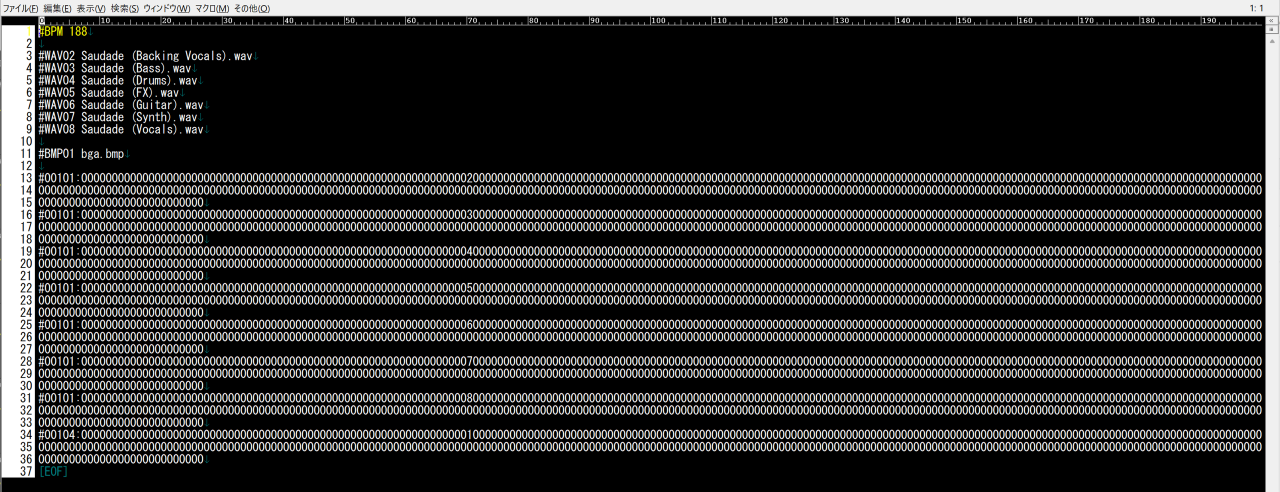
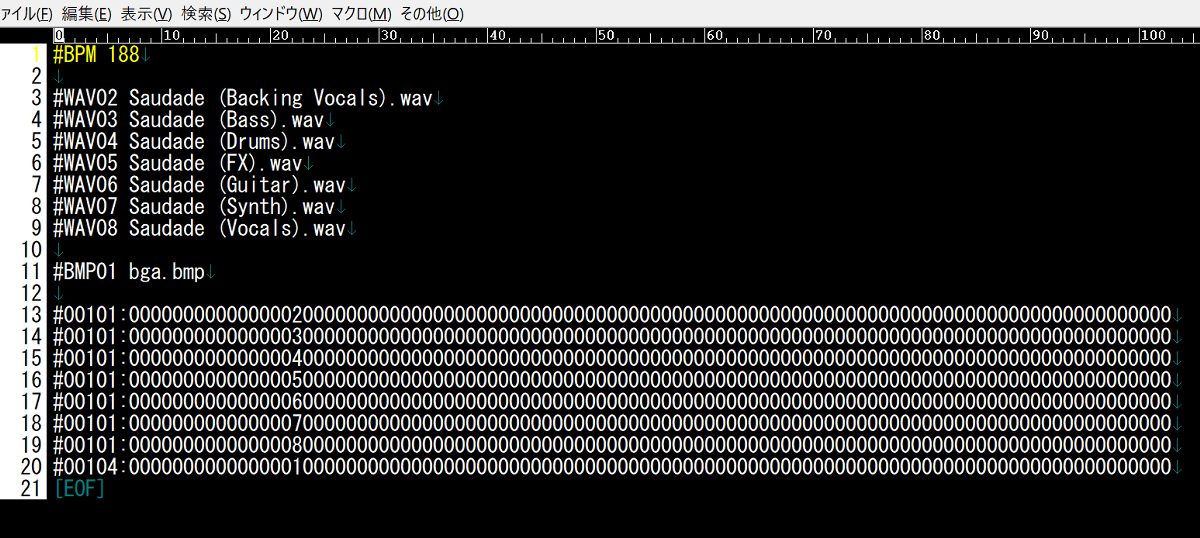
大きさなど修正（調整）

diff --git a/Form1.cs b/Form1.cs
@@ -25,6 +25,7 @@ namespace DxLibCSTest
         DX.VERTEX2D[] vertices = new DX.VERTEX2D[nWAVE_SIZE];
 
         int nPushedL = -100, nPushedR = -100;
+        int xsize = 1980, ysize = 1300;
 
         class UserData
         {
@@ -202,12 +203,15 @@ namespace DxLibCSTest
             DX.ChangeWindowMode(DX.TRUE);      // ウィンドウモード
             DX.SetUserWindow(this.Handle);    // 描画先をこのFormのハンドルに指定(Init以後は変更不可)
             DX.SetBackgroundColor(64, 64, 64);
+            DX.SetGraphMode(xsize, ysize, 32);
             DX.SetEnableXAudioFlag(DX.FALSE); // XAudio2を無効にしてDirectSoundにする（再生位置取得とかはDSの方がいいらしい？）
             DX.SetAlwaysRunFlag(DX.TRUE); // ウィンドウが非アクティブでも描画を続ける
             DX.SetWaitVSyncFlag(DX.FALSE);
+            DX.SetWindowSizeExtendRate(1.0);
+            ClientSize = new Size(xsize, ysize);
 
-            if (this.Height > 1400)
-                this.Height = 1400;
+            //if (this.Height > 1400)
+            //    this.Height = 1400;
 
             if (DX.DxLib_Init() == -1)
             {
@@ -428,6 +432,7 @@ namespace DxLibCSTest
                                 vertices[v].rhw = 1.0f;
                                 vertices[v].dif = color;
                                 v++;
+                                if (v >= nWAVE_SIZE) break;
 
                                 prevXL = x;
                                 prevYL = yL;

diff --git a/README.md b/README.md
@@ -27,7 +27,7 @@ Sunoの有料プランで曲を作ると楽器やボーカルごとに別れた.
 - SunoのStem群は.mp3ですが、ffmegなどで事前に.oggに変換しておいてから実行されることをお勧めします（.mp3だと読み込みが3倍くらい遅い)
 
 ## 使い方
-- [読込] でStemに分けている音声ファイル群を指定して読み込んでください。7ファイルまで。
+- [読込] でStemに分けている音声ファイル群を指定して読み込んでください。7ファイルまで。今回は拙作[Saudade](https://youtu.be/2u10DkyGzyo)のStemを使いました。
 - [縮小]とスクロールバーで、ドラムが規則的に鳴っている部分など、わかりやすそうな場所を表示します。
 - 薄い白線は、このファイルの実際の秒数を示しています。
 - 「だいたいこのへんが一小節の長さに該当するかな」という部分を左クリックと右クリックで指定します。水色の縦線が表示されます。
@@ -36,7 +36,8 @@ Sunoの有料プランで曲を作ると楽器やボーカルごとに別れた.
 
 - 左上に「推測BPM」が表示されます。この例では幸いにも(？)187.955と表示されたので「たぶん188かな」と推測されます。[Esc]を押して水色線を消し、[BPM]に188と入力して「更新」をクリックします
 - ざっくりスクロールして、間隔（BPM）はこんなものか、と確認できたら先頭部分にスクロールし、拡大します
-- 「小節の 0 / 192」となっている部分を「179 / 210」と入力して「更新」をクリックします。これで発声開始位置が決まりました。一小節を210等分したうちの179番目から音が鳴る、という意味です。つまり、最初の小節(0小節目)の179/210の位置から再生開始すれば31/210経過したところから1小節目が始まります。（ここの数値は適当に試行錯誤していい感じに決めてください。）
+- ~~「小節の 0 / 192」となっている部分を「179 / 210」と入力して「更新」をクリックします。これで発声開始位置が決まりました。一小節を210等分したうちの179番目から音が鳴る、という意味です。つまり、最初の小節(0小節目)の179/210の位置から再生開始すれば31/210経過したところから1小節目が始まります。（ここの数値は適当に試行錯誤していい感じに決めてください。）~~
+- ↑あらためてやってみたらこっちの数値の方がよかったので修正⇒　 「小節の 0 / 192」となっている部分を「41 / 48」と入力して「更新」をクリックします。これで発声開始位置が決まりました。1小節を48等分したうちの41番目から音が鳴る、という意味です。つまり、最初の小節(0小節目)の41/48の位置から再生開始すれば7/48経過したところから1小節目が始まります。（ここの数値は適当に試行錯誤していい感じに決めてください。）
 - ざっくりスクロールして、開始位置、小節の間隔（BPM）を確認します
 - 濃い白線は、このファイルの再生開始位置からの秒数を示しています
 
@@ -44,6 +45,7 @@ Sunoの有料プランで曲を作ると楽器やボーカルごとに別れた.
 
 - これでよければ「資料作成」でデータを保存します
 - データはこのような内容です。`#00101:xxxx`から始まっていますが`#00001:xxxx`からにしたい場合は、ご面倒ですが手動で修正願います（自分は2小節から始めているので。）
+
 
 ![書き出しデータ](clip_10.png)
 
